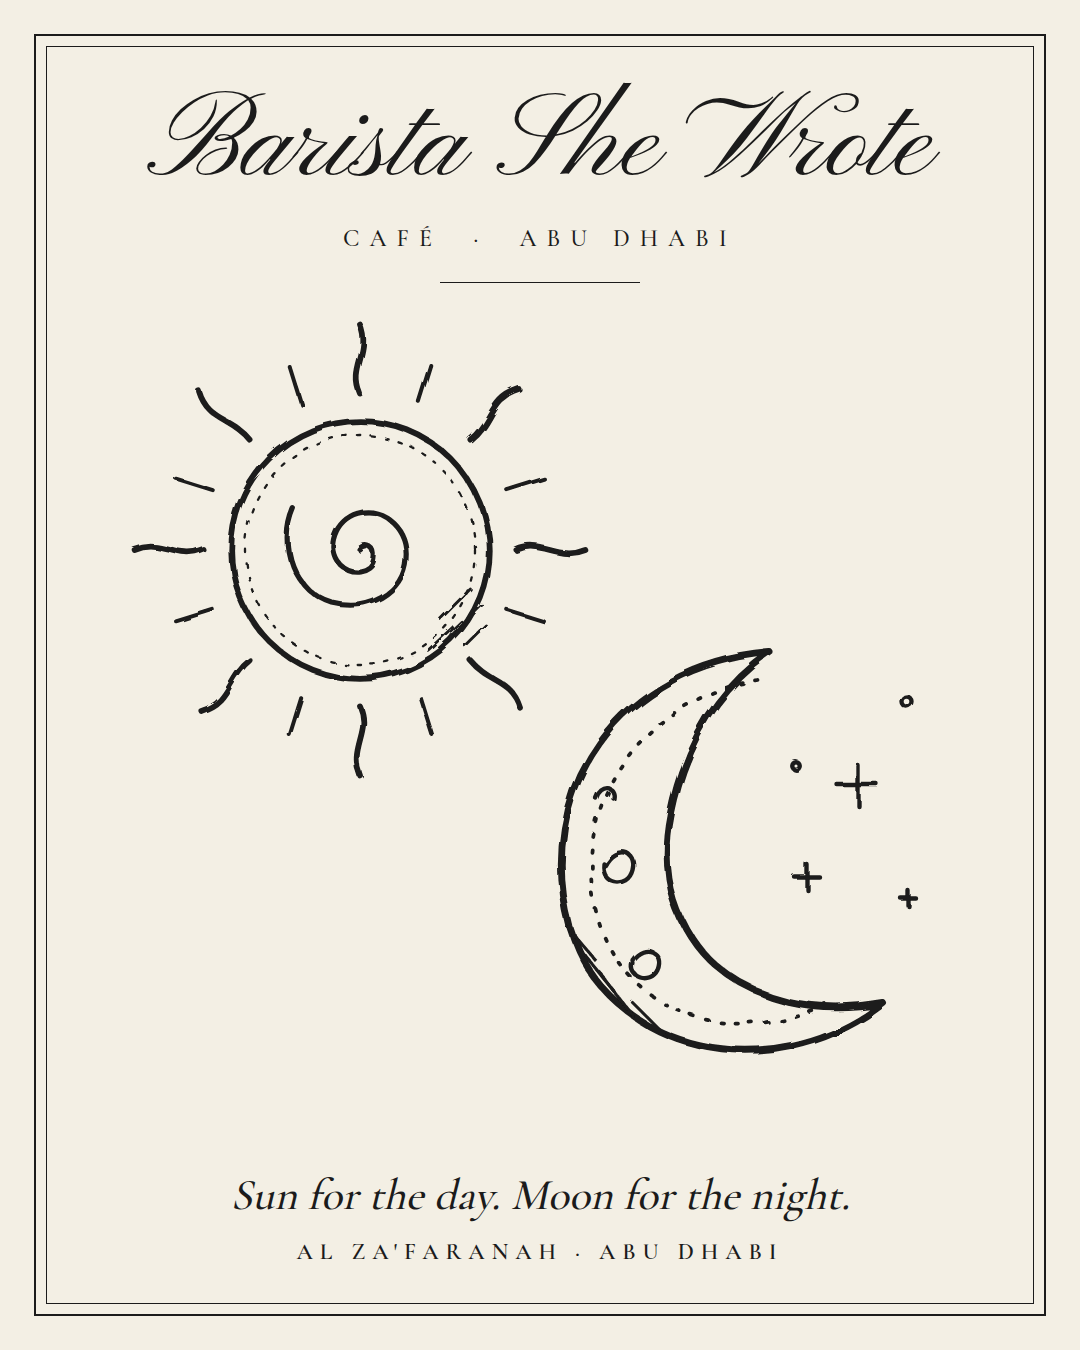
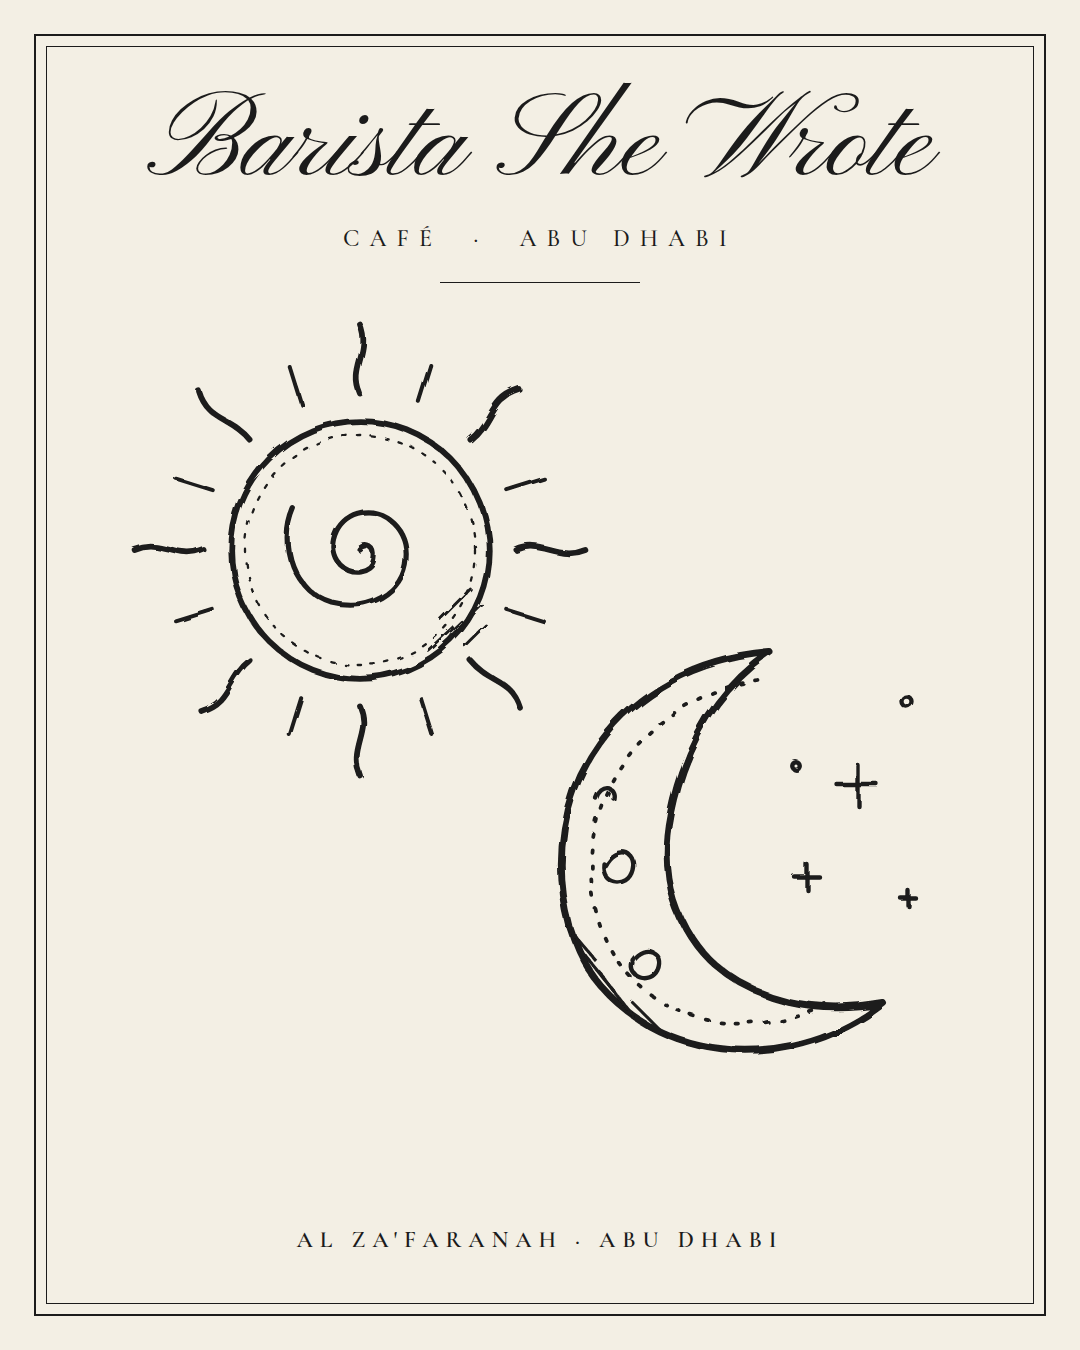
Remove tagline from moon and sun post
Claude-Session: https://claude.ai/code/session_013jr8mN3ZSswZi85nGPd6Pf

Changed region(s): [[0.2139, 0.8711, 0.7944, 0.9333]]

diff --git a/instagram/post.html b/instagram/post.html
@@ -12,7 +12,7 @@ body{width:1080px;height:1350px;background:#f3efe4;position:relative;overflow:hi
 .rule{position:absolute;top:282px;left:50%;width:200px;margin-left:-100px;border-top:1.5px solid #1b1b1b}
 svg.art{position:absolute;top:300px;left:0}
 .tag{position:absolute;bottom:128px;width:100%;text-align:center;font-size:44px;font-weight:500;font-style:italic}
-.loc{position:absolute;bottom:84px;width:100%;text-align:center;font-size:23px;letter-spacing:.3em;font-weight:600}
+.loc{position:absolute;bottom:96px;width:100%;text-align:center;font-size:23px;letter-spacing:.3em;font-weight:600}
 </style></head><body>
 <div class="frame"></div><div class="frame2"></div>
 <div class="title">Barista She Wrote</div>
@@ -85,6 +85,5 @@ svg.art{position:absolute;top:300px;left:0}
 
 </svg>
 
-<div class="tag">Sun for the day. Moon for the night.</div>
 <div class="loc">AL ZA'FARANAH · ABU DHABI</div>
 </body></html>
